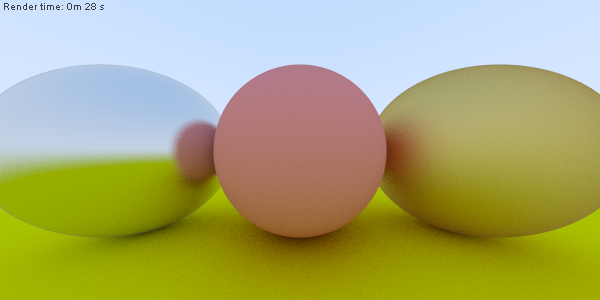
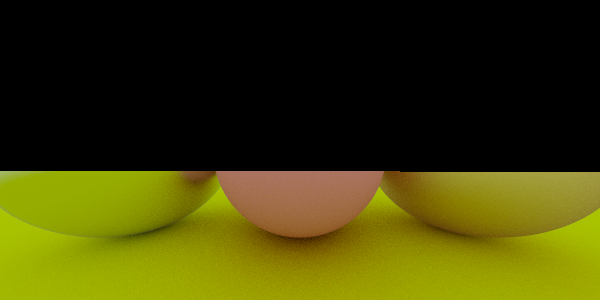
Render window refreshing

diff --git a/src/pathtracer/WindowFrame.java b/src/pathtracer/WindowFrame.java
@@ -1,41 +1,50 @@
 package pathtracer;
 
-import java.awt.Frame;
-import java.awt.Graphics;
+import java.awt.FlowLayout;
+import java.awt.event.WindowAdapter;
+import java.awt.event.WindowEvent;
 import java.awt.image.*;
+import java.io.File;
+import java.io.IOException;
+import javax.imageio.ImageIO;
 import javax.swing.*;
 
 public class WindowFrame extends JPanel
 {
-    public BufferedImage bi;
+    BufferedImage bi;
+    BufferedImage bi2;
+    boolean imageCheck=true;
     int w;
     int h;
     
-    public void createAndShowGUI(int w, int h, BufferedImage bi)
-    {
+    public void createAndShowGUI(int w, int h, BufferedImage bi){
         this.w=w;
         this.h=h;
         this.bi=bi;
-        JFrame frame = new JFrame("JPTrender");
-        frame.setDefaultCloseOperation(JFrame.EXIT_ON_CLOSE);
-        frame.add( this );
-        frame.setLocationByPlatform( true );
+        
+        JFrame frame = new JFrame();
+        //frame.setDefaultCloseOperation(onClose());
+        frame.getContentPane().setLayout(new FlowLayout());
+        this.add(new JLabel(new ImageIcon(bi)));
+        frame.add(this);        
         frame.pack();
-        frame.setVisible( true );        
+        frame.setVisible(true);
+        frame.setResizable(false);
+        
+        frame.addWindowListener(new WindowAdapter() {
+            public void windowClosing(WindowEvent e) {
+                //Print image
+                File outputfile = new File("renders/render.png");
+                try {
+                    ImageIO.write(bi, "png", outputfile);
+                } catch (IOException e1) {  } 
+                System.exit(0);
+            }
+        });
     }
     
-    @Override
-    protected void paintComponent(Graphics g){
-        super.paintComponent(g);
-        g.drawImage(bi, 0, 0, this);
-        System.out.println("no");
-    } 
-    
-    public void updateRender(BufferedImage bi2){          
-        this.bi=bi2;
+    public void updateRender(BufferedImage bi){ 
+        this.bi=bi;
         repaint();        
     }
-    
-    
-    
 }

diff --git a/src/pathtracer/PathTracer.java b/src/pathtracer/PathTracer.java
@@ -117,12 +117,6 @@ public class PathTracer {
         graphics.setColor(Color.DARK_GRAY);
         graphics.setFont(new Font("Arial", Font.PLAIN, 10));
         graphics.drawString(text, 3, 10);
-        
-        //Print image
-        File outputfile = new File("renders/render.png");
-
-        try {
-            ImageIO.write(theImage, "png", outputfile);
-        } catch (IOException e1) {  }     
+            
     }    
 }
